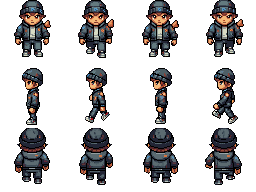
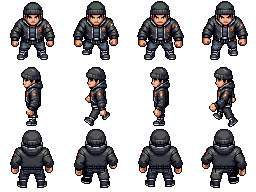
feat(odyssee): une armoire dans la chambre pour changer de tenue, nouveaux dessins de personnages ; Odyssée 3.74
Claude-Session: https://claude.ai/code/session_01E9CUaRXpXWBZHeUs2KXzJU

diff --git a/odyssee/js/data/sprites.js b/odyssee/js/data/sprites.js
@@ -1,2 +1,2 @@
 // Généré par tools/odyssee-sprites.py — ne pas modifier à la main.
-export const SPRITES = {"crea":["capyousse","capyflore","capysaule","mechelet","ciroulet","lustrelle","narvi","narvalier","narvaillant","piouf","piouffon","plumorage","grignotin","ronchonnet","chouillon","hulumiere","larvoile","cocoreille","vitrailune","bourdonnet","champinou","champitron","cerfantome","noctaile","noctailor","galetin","rocrabe","cristaupe","bulotin","bulotide","croabulle","croamonde","crevitonne","gerbizz","gerboltz","ampoulet","tricotine","corolline","songebelle","revelaine","tisonnard","brasieraud","sombrecaille","nocturmine","frimousse","morsegivre","boulonnet","rouagant","draquelin","draconfle","cieldrake","odyssor","lutinelle","feerielle","pugnaton","poingtonnerre","spectrille","spectrelune","sablopode","dunosaure"],"chars":{"w":64,"h":64,"d":2,"rows":{"player_m":0,"player_f":1,"theo":2,"saule":3,"maman":4,"nurse":5,"vendeur":6,"garde":7,"hector":8,"basalte":9,"marine":10,"volta":11,"flora":12,"sibylle":13,"pyros":14,"drakos":15,"celestine":16,"gamin":17,"fillette":18,"montagnard":19,"marin":20,"topdresseur":21,"topdresseuse":22,"scientifique":23,"pecheur":24,"insectomane":25,"randonneuse":26,"medium":27,"karateka":28,"habitant":29,"habitante":30,"vieil_homme":31,"enfant":32,"brume":33,"brume_f":34,"sylas":35,"ariane":36,"nox":37,"voleur":38,"pretre":39,"kimono":40,"jardinier":41,"facteur":42,"capitaine":43,"lucie":44,"fillette2":45,"dame":46,"savant":47,"eclipse_m":48,"eclipse_f":49,"nyx":50,"erebe":51,"nocturne":52,"lumen":53,"frimas":54,"spectrel":55,"brutus":56,"ombrelle":57,"base_m":58,"pierre":59,"base_f":60,"margot":61,"aurele":62,"morgane":63,"gaspard":64,"ferdinand":65,"lilas":66,"corbin":67,"croupier":68}},"portraits":["hector","basalte","marine","volta","flora","sibylle","pyros","drakos","celestine","saule","theo","gamin","fillette","montagnard","marin","topdresseur","topdresseuse","scientifique","pecheur","insectomane","randonneuse","medium","karateka","habitant","habitante"],"items":["poke-ball","great-ball","ultra-ball","potion","super-potion","hyper-potion","max-potion","full-heal","revive","antidote","paralyze-heal","awakening","burn-heal","ice-heal","full-restore","escape-rope","repel","super-repel","max-repel","rare-candy","fire-stone","water-stone","thunder-stone","leaf-stone","moon-stone","sun-stone","oran-berry","ether","elixir","bag","dex","town-map","wallet","notebook","letter","gift"],"nature":{"tree":[47,48,2],"tree2":[47,48,2],"pine":[43,60,2],"snowpine":[43,61,2],"deadtree":[39,57,2],"palm":[49,56,2],"bush":[27,24,2],"rock":[30,28,2],"caverock":[32,29,2],"stalag":[26,44,2],"tuft":[32,40,2],"tuft1":[36,40,2],"darktuft":[32,40,2],"flowers_r":[27,26,2],"flowers_y":[27,26,2],"flowers_w":[27,26,2],"sign":[26,36,2],"fence":[64,48,2],"lamp":[14,48,2],"mailbox":[23,35,2],"pot":[18,32,2],"itemball":[15,15,2],"bang":[14,16],"statue":[26,55,2],"tree3":[47,48,2],"crackrock":[32,28,2],"cuttree":[15,32,2],"snowtuft":[32,40,2],"gymstatue":[46,82,2],"tuft0":[36,40,2],"tuft2":[36,40,2],"tuft3":[36,40,2],"darktuft0":[36,40,2],"darktuft1":[36,40,2],"darktuft2":[36,40,2],"darktuft3":[36,40,2],"snowtuft0":[36,40,2],"snowtuft1":[36,40,2],"snowtuft2":[36,40,2],"grassfront":[32,28,2],"grassfront2":[32,28,2],"darkfront":[32,28,2],"darkfront2":[32,28,2],"snowfront":[32,28,2],"snowfront2":[32,28,2],"fence_v":[24,104,2],"fence_v0":[24,104,2],"velo_s":[28,42,2],"velo_w":[38,30,2],"velo_e":[38,30,2],"velo_n":[24,37,2]},"mobilier":{"healer":[41,40,2],"pc":[35,39,2],"books":[34,40,2],"tv":[26,31,2],"bed":[26,39,2],"table":[24,28,2],"plant":[25,40,2],"gymstatue":[46,82,2],"shelf":[34,39,2],"counterseg":[34,23,2],"chair":[16,32,2],"sofa":[40,26,2],"fridge":[21,40,2],"kitchen":[40,27,2],"clock":[19,40,2],"painting":[25,22,2],"boxes":[33,30,2],"labmachine":[25,40,2],"startertable":[41,28,2],"bench":[39,22,2],"trash":[17,22,2],"vase":[16,25,2],"fireplace":[35,40,2],"rug":[37,18,2]},"sol":["grass0","grass1","grass2","grass3","tall0","tall1","forest0","forest1","path","sand","pave","ash0","ash1","snow0","snow1","cave","water0","water1","water2","water3","deep","flowerR","flowerY","flowerW","ledge","ledgeE","ledgeW","bridge","stairs","cavestairs","mat","matgreen","cliff","cliffplain","cavewall","cavetop","wall_in","wall_center","wall_mart","wall_gym","wall_league","walltop","floor_wood","floor_center","floor_mart","floor_lab","floor_league","counter","floor_gymBug","floor_gymRock","floor_gymWater","floor_gymElec","floor_gymGrass","floor_gymPsy","floor_gymFire","floor_gymDragon","counterfront","martfront","shelf","roof_flat","lava0","lava1","grass4","grass5","darktall0","darktall1","snowtall0","snowtall1"],"facades":["arene","base","boutique","centre","chalet","grotte","labo","ligue","maison","mirage","musee","pagode","pecheur","phare","port"],"natureV2":true,"dresseurs":["player_m","player_f","theo","garde","hector","basalte","marine","volta","flora","sibylle","pyros","drakos","celestine","gamin","fillette","montagnard","marin","topdresseur","topdresseuse","scientifique","pecheur","insectomane","randonneuse","medium","karateka","habitant","habitante","vieil_homme","enfant","brume","brume_f","sylas","ariane","nox","voleur","pretre","kimono","brutus","ombrelle","spectrel","frimas","nocturne","eclipse_f","eclipse_m","erebe","nyx","margot","aurele","morgane","gaspard","ferdinand","lilas","corbin"],"sol32":["snow0","snow1","snow2","snow3","ash0","ash1","gravel0","gravel1","path0","path1","sand0","sand1","water0","water1","water2","water3","pave0","pave1","grass0","grass1","deep0","deep1","lava0","lava1","grass2","flowerW","flowerR","field","forest0","forest1","leaves0","leaves1","cliffG","cliffG2","cliffGstairs","cliffG3","cliffR","cliffR2","cliffRstairs","cliffR3","cliffS","cliffS2","cliffSstairs","cliffS3","stairs","stairs2","bridgeEW","bridgeEW2","bridgeNS","bridgeNS2","dock0","dock1","dockEnd0","dockEnd1","floor_wood","floor_wood2","floor_beige","floor_pink","floor_pink2","floor_blue","floor_blue2","floor_round","floor_dark","floor_grate","floor_marble","floor_marble2","carpetL","carpet","carpetR","carpet2","floor_metal","floor_metal2","floor_grate2","floor_hazard","cave0","cave1","cavepuddle","ice","crystal","floor_white","floor_stone","floor_dark2","floor_glyph","floor_glyph2","floor_sand","tatami","ledge","ledgeW","ledgeE","ladder","hole","waterrock","whirl","crackrock"],"herbes":{"prairie":["a","b","bl","bot","br","c","in_ne","in_nw","in_se","in_sw","l","r","t","tl","tr"],"bois":["a","b","bl","bot","br","c","in_ne","in_nw","in_se","in_sw","l","r","t","tl","tr"],"neige":["a","b","bl","bot","br","c","in_ne","in_nw","in_se","in_sw","l","r","t","tl","tr"]},"hgss":{"mer":[16,8],"rivage":[32,8],"vague":[16,4],"fleur_r":[16,4],"fleur_y":[16,4],"fleur_b":[16,4],"fleur_p":[16,4],"fleur_o":[16,3],"fleur_w":[16,3],"rocher_mer":[32,6]},"deco":{"erable":[24,32,1],"cerisier":[24,34,1],"arbre_automne":[24,31,1],"panneau_bois":[16,15,1],"banc":[24,17,1],"fontaine":[40,32,1],"gargouille":[12,27,1],"pilier_ball":[12,33,1],"caisse":[14,18,1],"tonneau":[12,16,1],"borne":[12,14,1],"bouee":[12,11,1],"parasol":[24,26,1],"bateau":[48,21,1],"lanterne":[12,26,1],"torii":[48,38,1],"stele":[12,27,1],"colonne":[12,41,1],"sanctuaire":[32,38,1],"cristal":[16,28,1],"rocher_grand":[20,19,1],"butte":[16,14,1],"machine_labo":[32,34,1],"table_balls":[32,19,1],"livres":[16,20,1],"lampe_phare":[24,32,1],"telescope":[16,26,1],"corde":[16,11,1],"trone":[32,39,1],"brasero":[14,30,1],"statue_dragon":[20,39,1],"console":[32,28,1],"ecran_carte":[32,27,1],"cuve":[16,37,1],"caisses":[16,29,1],"cloche":[32,30,1],"coussin":[16,14,1],"fossile":[32,25,1],"squelette":[64,31,1]},"carte":["arbre_o","arbre_v","arbres_o","remous","puits","grotte","grotte_p","grotte_m","cascade","colline","montagne"],"suiveurs":{"w":64,"h":64,"d":2,"rows":{"1":0,"2":1,"3":2,"4":3,"5":4,"6":5,"7":6,"8":7,"9":8,"152":9,"153":10,"154":11,"155":12,"156":13,"157":14,"158":15,"159":16,"160":17,"1001":18,"1002":19,"1003":20,"1004":21,"1005":22,"1006":23,"1007":24,"1008":25,"1009":26}}};
+export const SPRITES = {"crea":["capyousse","capyflore","capysaule","mechelet","ciroulet","lustrelle","narvi","narvalier","narvaillant","piouf","piouffon","plumorage","grignotin","ronchonnet","chouillon","hulumiere","larvoile","cocoreille","vitrailune","bourdonnet","champinou","champitron","cerfantome","noctaile","noctailor","galetin","rocrabe","cristaupe","bulotin","bulotide","croabulle","croamonde","crevitonne","gerbizz","gerboltz","ampoulet","tricotine","corolline","songebelle","revelaine","tisonnard","brasieraud","sombrecaille","nocturmine","frimousse","morsegivre","boulonnet","rouagant","draquelin","draconfle","cieldrake","odyssor","lutinelle","feerielle","pugnaton","poingtonnerre","spectrille","spectrelune","sablopode","dunosaure"],"chars":{"w":64,"h":64,"d":2,"rows":{"player_m":0,"player_f":1,"theo":2,"saule":3,"maman":4,"nurse":5,"vendeur":6,"garde":7,"hector":8,"basalte":9,"marine":10,"volta":11,"flora":12,"sibylle":13,"pyros":14,"drakos":15,"celestine":16,"gamin":17,"fillette":18,"montagnard":19,"marin":20,"topdresseur":21,"topdresseuse":22,"scientifique":23,"pecheur":24,"insectomane":25,"randonneuse":26,"medium":27,"karateka":28,"habitant":29,"habitante":30,"vieil_homme":31,"enfant":32,"brume":33,"brume_f":34,"sylas":35,"ariane":36,"nox":37,"voleur":38,"pretre":39,"kimono":40,"jardinier":41,"facteur":42,"capitaine":43,"lucie":44,"fillette2":45,"dame":46,"savant":47,"eclipse_m":48,"eclipse_f":49,"nyx":50,"erebe":51,"nocturne":52,"lumen":53,"frimas":54,"spectrel":55,"brutus":56,"ombrelle":57,"base_m":58,"pierre":59,"base_f":60,"margot":61,"aurele":62,"morgane":63,"gaspard":64,"ferdinand":65,"lilas":66,"corbin":67,"croupier":68}},"portraits":["hector","basalte","marine","volta","flora","sibylle","pyros","drakos","celestine","saule","theo","gamin","fillette","montagnard","marin","topdresseur","topdresseuse","scientifique","pecheur","insectomane","randonneuse","medium","karateka","habitant","habitante"],"items":["poke-ball","great-ball","ultra-ball","potion","super-potion","hyper-potion","max-potion","full-heal","revive","antidote","paralyze-heal","awakening","burn-heal","ice-heal","full-restore","escape-rope","repel","super-repel","max-repel","rare-candy","fire-stone","water-stone","thunder-stone","leaf-stone","moon-stone","sun-stone","oran-berry","ether","elixir","bag","dex","town-map","wallet","notebook","letter","gift"],"nature":{"tree":[47,48,2],"tree2":[47,48,2],"pine":[43,60,2],"snowpine":[43,61,2],"deadtree":[39,57,2],"palm":[49,56,2],"bush":[27,24,2],"rock":[30,28,2],"caverock":[32,29,2],"stalag":[26,44,2],"tuft":[32,40,2],"tuft1":[36,40,2],"darktuft":[32,40,2],"flowers_r":[27,26,2],"flowers_y":[27,26,2],"flowers_w":[27,26,2],"sign":[26,36,2],"fence":[64,48,2],"lamp":[14,48,2],"mailbox":[23,35,2],"pot":[18,32,2],"itemball":[15,15,2],"bang":[14,16],"statue":[26,55,2],"tree3":[47,48,2],"crackrock":[32,28,2],"cuttree":[15,32,2],"snowtuft":[32,40,2],"gymstatue":[46,82,2],"tuft0":[36,40,2],"tuft2":[36,40,2],"tuft3":[36,40,2],"darktuft0":[36,40,2],"darktuft1":[36,40,2],"darktuft2":[36,40,2],"darktuft3":[36,40,2],"snowtuft0":[36,40,2],"snowtuft1":[36,40,2],"snowtuft2":[36,40,2],"grassfront":[32,28,2],"grassfront2":[32,28,2],"darkfront":[32,28,2],"darkfront2":[32,28,2],"snowfront":[32,28,2],"snowfront2":[32,28,2],"fence_v":[24,104,2],"fence_v0":[24,104,2],"velo_s":[28,42,2],"velo_w":[38,30,2],"velo_e":[38,30,2],"velo_n":[24,37,2]},"mobilier":{"healer":[41,40,2],"pc":[35,39,2],"books":[34,40,2],"tv":[26,31,2],"bed":[26,39,2],"table":[24,28,2],"plant":[25,40,2],"gymstatue":[46,82,2],"shelf":[34,39,2],"counterseg":[34,23,2],"chair":[16,32,2],"sofa":[40,26,2],"fridge":[21,40,2],"kitchen":[40,27,2],"clock":[19,40,2],"painting":[25,22,2],"boxes":[33,30,2],"labmachine":[25,40,2],"startertable":[41,28,2],"bench":[39,22,2],"trash":[17,22,2],"vase":[16,25,2],"fireplace":[35,40,2],"rug":[37,18,2],"armoire":[40,60,2]},"sol":["grass0","grass1","grass2","grass3","tall0","tall1","forest0","forest1","path","sand","pave","ash0","ash1","snow0","snow1","cave","water0","water1","water2","water3","deep","flowerR","flowerY","flowerW","ledge","ledgeE","ledgeW","bridge","stairs","cavestairs","mat","matgreen","cliff","cliffplain","cavewall","cavetop","wall_in","wall_center","wall_mart","wall_gym","wall_league","walltop","floor_wood","floor_center","floor_mart","floor_lab","floor_league","counter","floor_gymBug","floor_gymRock","floor_gymWater","floor_gymElec","floor_gymGrass","floor_gymPsy","floor_gymFire","floor_gymDragon","counterfront","martfront","shelf","roof_flat","lava0","lava1","grass4","grass5","darktall0","darktall1","snowtall0","snowtall1"],"facades":["arene","base","boutique","centre","chalet","grotte","labo","ligue","maison","mirage","musee","pagode","pecheur","phare","port"],"natureV2":true,"dresseurs":["player_m","player_f","theo","garde","hector","basalte","marine","volta","flora","sibylle","pyros","drakos","celestine","gamin","fillette","montagnard","marin","topdresseur","topdresseuse","scientifique","pecheur","insectomane","randonneuse","medium","karateka","habitant","habitante","vieil_homme","enfant","brume","brume_f","sylas","ariane","nox","voleur","pretre","kimono","brutus","ombrelle","spectrel","frimas","nocturne","eclipse_f","eclipse_m","erebe","nyx","margot","aurele","morgane","gaspard","ferdinand","lilas","corbin"],"sol32":["snow0","snow1","snow2","snow3","ash0","ash1","gravel0","gravel1","path0","path1","sand0","sand1","water0","water1","water2","water3","pave0","pave1","grass0","grass1","deep0","deep1","lava0","lava1","grass2","flowerW","flowerR","field","forest0","forest1","leaves0","leaves1","cliffG","cliffG2","cliffGstairs","cliffG3","cliffR","cliffR2","cliffRstairs","cliffR3","cliffS","cliffS2","cliffSstairs","cliffS3","stairs","stairs2","bridgeEW","bridgeEW2","bridgeNS","bridgeNS2","dock0","dock1","dockEnd0","dockEnd1","floor_wood","floor_wood2","floor_beige","floor_pink","floor_pink2","floor_blue","floor_blue2","floor_round","floor_dark","floor_grate","floor_marble","floor_marble2","carpetL","carpet","carpetR","carpet2","floor_metal","floor_metal2","floor_grate2","floor_hazard","cave0","cave1","cavepuddle","ice","crystal","floor_white","floor_stone","floor_dark2","floor_glyph","floor_glyph2","floor_sand","tatami","ledge","ledgeW","ledgeE","ladder","hole","waterrock","whirl","crackrock"],"herbes":{"prairie":["a","b","bl","bot","br","c","in_ne","in_nw","in_se","in_sw","l","r","t","tl","tr"],"bois":["a","b","bl","bot","br","c","in_ne","in_nw","in_se","in_sw","l","r","t","tl","tr"],"neige":["a","b","bl","bot","br","c","in_ne","in_nw","in_se","in_sw","l","r","t","tl","tr"]},"hgss":{"mer":[16,8],"rivage":[32,8],"vague":[16,4],"fleur_r":[16,4],"fleur_y":[16,4],"fleur_b":[16,4],"fleur_p":[16,4],"fleur_o":[16,3],"fleur_w":[16,3],"rocher_mer":[32,6]},"deco":{"erable":[24,32,1],"cerisier":[24,34,1],"arbre_automne":[24,31,1],"panneau_bois":[16,15,1],"banc":[24,17,1],"fontaine":[40,32,1],"gargouille":[12,27,1],"pilier_ball":[12,33,1],"caisse":[14,18,1],"tonneau":[12,16,1],"borne":[12,14,1],"bouee":[12,11,1],"parasol":[24,26,1],"bateau":[48,21,1],"lanterne":[12,26,1],"torii":[48,38,1],"stele":[12,27,1],"colonne":[12,41,1],"sanctuaire":[32,38,1],"cristal":[16,28,1],"rocher_grand":[20,19,1],"butte":[16,14,1],"machine_labo":[32,34,1],"table_balls":[32,19,1],"livres":[16,20,1],"lampe_phare":[24,32,1],"telescope":[16,26,1],"corde":[16,11,1],"trone":[32,39,1],"brasero":[14,30,1],"statue_dragon":[20,39,1],"console":[32,28,1],"ecran_carte":[32,27,1],"cuve":[16,37,1],"caisses":[16,29,1],"cloche":[32,30,1],"coussin":[16,14,1],"fossile":[32,25,1],"squelette":[64,31,1]},"carte":["arbre_o","arbre_v","arbres_o","remous","puits","grotte","grotte_p","grotte_m","cascade","colline","montagne"],"suiveurs":{"w":64,"h":64,"d":2,"rows":{"1":0,"2":1,"3":2,"4":3,"5":4,"6":5,"7":6,"8":7,"9":8,"152":9,"153":10,"154":11,"155":12,"156":13,"157":14,"158":15,"159":16,"160":17,"1001":18,"1002":19,"1003":20,"1004":21,"1005":22,"1006":23,"1007":24,"1008":25,"1009":26}}};

diff --git a/odyssee/js/game.js b/odyssee/js/game.js
@@ -862,14 +862,15 @@ export class Game {
     this.view.setJoueur(composer(b.src, b.sx, b.sy, T)); this._tenueOk = true;
   }
   /** cabine d'essayage (boutique de mode) */
-  async apparence() {
-    const ui = this.ui, sp = { speaker: 'Styliste' };
-    if (!this.view.baseDe?.('m')) { await ui.say(['Bienvenue à la boutique de mode !', 'Nos nouvelles collections arrivent très bientôt.'], sp); return; }
-    await ui.say(['Bienvenue à la boutique de mode !', 'Casquette, bonnet, t-shirt, veste, short, sandales… et toutes les couleurs que tu veux. C\'est offert pour les dresseurs !'], sp);
+  async apparence(o = {}) {
+    const ui = this.ui, sp = o.armoire ? {} : { speaker: 'Styliste' };
+    if (!this.view.baseDe?.('m')) { await ui.say(o.armoire ? 'Ton armoire. Elle est bien rangée.' : ['Bienvenue à la boutique de mode !', 'Nos nouvelles collections arrivent très bientôt.'], sp); return; }
+    if (o.armoire) await ui.say('Ton armoire ! Tu veux changer de tenue ?', sp);
+    else await ui.say(['Bienvenue à la boutique de mode !', 'Casquette, bonnet, t-shirt, veste, short, sandales… et toutes les couleurs que tu veux. C\'est offert pour les dresseurs !'], sp);
     const T = await apparenceScreen(ui, { tenue: this.state.tenue || { genre: this.state.gender || 'm' }, base: (g) => this.view.baseDe(g) });
-    if (!T) { await ui.say('Reviens quand tu veux changer de style !', sp); return; }
+    if (!T) { if (!o.armoire) await ui.say('Reviens quand tu veux changer de style !', sp); return; }
     this.state.tenue = T; this.state.gender = T.genre; this.appliquerTenue(); this.sound.sfx('levelup');
-    await ui.say('Superbe ! Ce style te va à merveille.', sp);
+    await ui.say(o.armoire ? 'Te voilà prêt' + (T.genre === 'f' ? 'e' : '') + ' pour l\'aventure !' : 'Superbe ! Ce style te va à merveille.', sp);
   }
   /** à vélo : deux fois plus vite que la course, dehors seulement */
   onBike() { return !!this.state?.velo && this.mapObj?.outdoor && !this.player?.surf; }

diff --git a/index.html b/index.html
@@ -25,7 +25,7 @@
 <link rel="preconnect" href="https://fonts.googleapis.com">
 <link rel="preconnect" href="https://fonts.gstatic.com" crossorigin>
 <link href="https://fonts.googleapis.com/css2?family=Bungee&family=Chakra+Petch:wght@500;600;700&display=swap" rel="stylesheet">
-<link rel="stylesheet" href="hub/hub.css?v=3.73">
+<link rel="stylesheet" href="hub/hub.css?v=3.74">
 </head>
 <body>
 
@@ -136,20 +136,20 @@
 <!-- JEU -->
 <section class="screen" id="play"></section>
 
-<script src="shared/logger.js?v=3.73"></script>
-<script src="shared/net.js?v=3.73"></script>
-<script src="shared/room.js?v=3.73"></script>
-<script src="shared/profile.js?v=3.73"></script>
-<script src="shared/results.js?v=3.73"></script>
-<script src="shared/volume.js?v=3.73"></script>
-<script src="shared/uisfx.js?v=3.73"></script>
-<script src="hub/nettest.js?v=3.73"></script>
-<script src="hub/games.js?v=3.73"></script>
-<script src="hub/account.js?v=3.73"></script>
-<script src="hub/friends.js?v=3.73"></script>
-<script src="hub/hub.js?v=3.73"></script>
-<script src="hub/home.js?v=3.73"></script>
-<script src="hub/ingame.js?v=3.73"></script>
-<script type="module" src="hub/music.js?v=3.73"></script>
+<script src="shared/logger.js?v=3.74"></script>
+<script src="shared/net.js?v=3.74"></script>
+<script src="shared/room.js?v=3.74"></script>
+<script src="shared/profile.js?v=3.74"></script>
+<script src="shared/results.js?v=3.74"></script>
+<script src="shared/volume.js?v=3.74"></script>
+<script src="shared/uisfx.js?v=3.74"></script>
+<script src="hub/nettest.js?v=3.74"></script>
+<script src="hub/games.js?v=3.74"></script>
+<script src="hub/account.js?v=3.74"></script>
+<script src="hub/friends.js?v=3.74"></script>
+<script src="hub/hub.js?v=3.74"></script>
+<script src="hub/home.js?v=3.74"></script>
+<script src="hub/ingame.js?v=3.74"></script>
+<script type="module" src="hub/music.js?v=3.74"></script>
 </body>
 </html>

diff --git a/odyssee/js/world/interiors.js b/odyssee/js/world/interiors.js
@@ -42,6 +42,8 @@ export function houseInterior(id, name, o = {}) {
   // avec une cuisine (frigo et évier au fond), la plante descend dans le coin pour ne pas toucher l'évier
   furn(m, 'books', 1, 2); furn(m, 'tv', 3, 2); furn(m, 'plant', o.kitchen ? 1 : w - 2, o.kitchen ? (o.h || 8) - 2 : 2);
   furn(m, 'table', 4, 4); if (o.bed) furn(m, 'bed', w - 2, 4);
+  // la chambre du joueur : une armoire pour changer de tenue
+  if (o.bed) { furn(m, 'armoire', w - 2, 2); m.object(w - 2, 2, { use: (api) => api.game.apparence({ armoire: true }) }); }
   if (o.kitchen) { furn(m, 'fridge', 5, 2); furn(m, 'kitchen', 6, 2); }
   else furn(m, w > 9 ? 'clock' : 'painting', 5, 2);
   if (o.extraBooks) furn(m, 'books', 6, 2);

diff --git a/apropos.html b/apropos.html
@@ -13,7 +13,7 @@
 <link rel="preconnect" href="https://fonts.googleapis.com">
 <link rel="preconnect" href="https://fonts.gstatic.com" crossorigin>
 <link href="https://fonts.googleapis.com/css2?family=Bungee&family=Chakra+Petch:wght@500;600;700&display=swap" rel="stylesheet">
-<link rel="stylesheet" href="hub/hub.css?v=3.73">
+<link rel="stylesheet" href="hub/hub.css?v=3.74">
 <style>
   .doc{width:min(860px,100%);margin:0 auto;display:flex;flex-direction:column;gap:22px}
   .doc .card h2{margin-top:0}

diff --git a/hub/hub.js b/hub/hub.js
@@ -1,7 +1,7 @@
 /* Hub : profil, salon commun et lancement des jeux dans une iframe.
    Le salon (DDRoom) vit ici pendant toute la session : changer de jeu ne coupe pas la connexion. */
 (function () {
-  const VERSION = '3.73';
+  const VERSION = '3.74';
   const $ = (s) => document.querySelector(s);
   const ORIGIN = location.origin === 'null' ? '*' : location.origin;
   const GAMES = window.HUB_GAMES;

diff --git a/CHANGELOG.md b/CHANGELOG.md
@@ -1,5 +1,9 @@
 # Journal des versions — Arcadia
 
+## 3.74 — 3 novembre 2026
+- **Odyssée** — Une armoire dans ta chambre, à Bourg-Aube : change de tenue quand tu veux, sans attendre la boutique de Métropole.
+- **Odyssée** — Nouveaux dessins pour le capitaine, le facteur, la vieille dame, Nox, le voleur, Brume et une sbire de la Team Éclipse.
+
 ## 3.73 — 3 novembre 2026
 - **Odyssée** — Sur certains téléphones, les personnages restent nets (ils pouvaient s'afficher flous).
 
